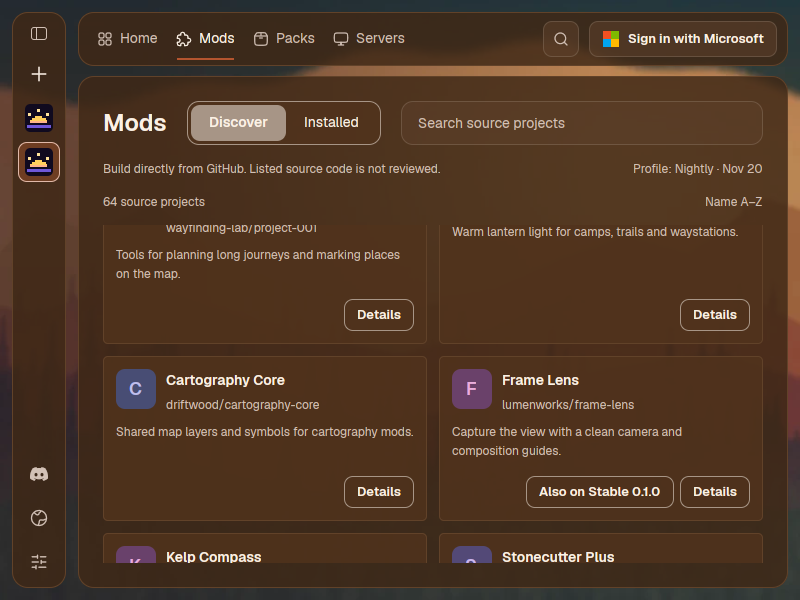
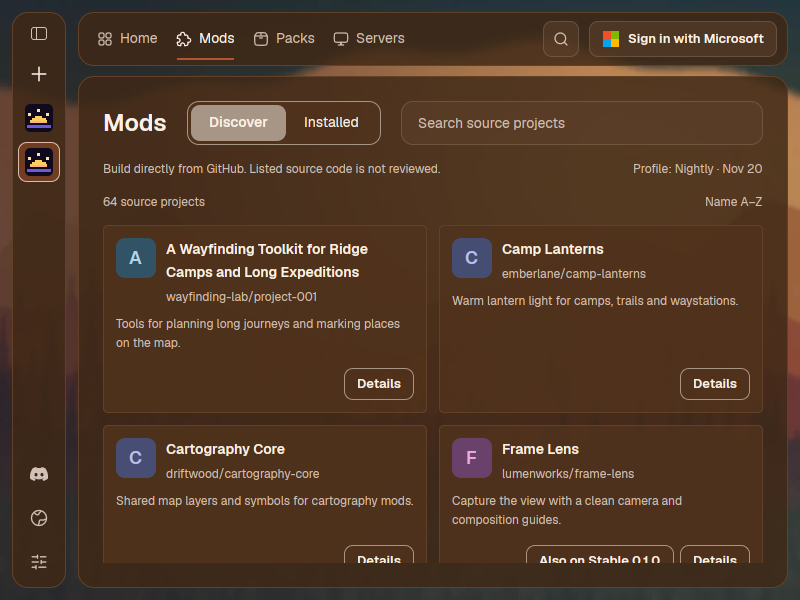
Refresh the final compact Nightly walkthrough

diff --git a/rollup7-6691547f9-final/README.md b/rollup7-6691547f9-final/README.md
@@ -20,7 +20,7 @@ At 800×600 the bottom of the disabled Extras note in the Home build menu remain
 |---|---|---|
 | [discover-stable-800x600.png](discover-stable-800x600.png) | The Stable profile shows only registry mods and keeps the Stable · 0.1.0 build label. | `0f78e6f37d2b4240dca9d49b7adf86dc130a8036` |
 | [discover-stable-1280x800.png](discover-stable-1280x800.png) | The Stable profile shows only registry mods and keeps the Stable · 0.1.0 build label. | `0f78e6f37d2b4240dca9d49b7adf86dc130a8036` |
-| [discover-nightly-800x600.png](discover-nightly-800x600.png) | The published Nightly · Nov 20 profile shows only source projects, the unreviewed-code note, and Also on Stable. | `0f78e6f37d2b4240dca9d49b7adf86dc130a8036` |
+| [discover-nightly-800x600.png](discover-nightly-800x600.png) | The top of the Nightly source list, with the first row fully visible and the profile on published Nightly · Nov 20. | `0f78e6f37d2b4240dca9d49b7adf86dc130a8036` |
 | [discover-nightly-1280x800.png](discover-nightly-1280x800.png) | The published Nightly · Nov 20 profile shows only source projects, the unreviewed-code note, and Also on Stable. | `0f78e6f37d2b4240dca9d49b7adf86dc130a8036` |
 
 ## Installed
@@ -49,8 +49,8 @@ At 800×600 the bottom of the disabled Extras note in the Home build menu remain
 |---|---|---|
 | [nightly-readme-800x600.png](nightly-readme-800x600.png) | Nightly mod Details show the pinned repository’s README. | `7dd5ea80f619c52dfadba5c3a9e09c3db4f2dbf5` |
 | [nightly-readme-1280x800.png](nightly-readme-1280x800.png) | Nightly mod Details show the pinned repository’s README. | `7dd5ea80f619c52dfadba5c3a9e09c3db4f2dbf5` |
-| [nightly-source-consent-800x600.png](nightly-source-consent-800x600.png) | Consent says Sunrise has not reviewed the code and that building and playing run it. Repository, commit, View source, Cancel and Build remain. | `0f78e6f37d2b4240dca9d49b7adf86dc130a8036` |
-| [nightly-source-consent-1280x800.png](nightly-source-consent-1280x800.png) | Consent says Sunrise has not reviewed the code and that building and playing run it. Repository, commit, View source, Cancel and Build remain. | `0f78e6f37d2b4240dca9d49b7adf86dc130a8036` |
+| [nightly-source-consent-800x600.png](nightly-source-consent-800x600.png) | Source-build consent on published Nightly · Nov 20, with the exact unreviewed-code warning, repository, commit, View source, Cancel and Build. | `0f78e6f37d2b4240dca9d49b7adf86dc130a8036` |
+| [nightly-source-consent-1280x800.png](nightly-source-consent-1280x800.png) | Source-build consent on published Nightly · Nov 20, with the exact unreviewed-code warning, repository, commit, View source, Cancel and Build. | `0f78e6f37d2b4240dca9d49b7adf86dc130a8036` |
 | [nightly-toolchain-progress-800x600.png](nightly-toolchain-progress-800x600.png) | The required Rust toolchain is downloading. | `7dd5ea80f619c52dfadba5c3a9e09c3db4f2dbf5` |
 | [nightly-toolchain-progress-1280x800.png](nightly-toolchain-progress-1280x800.png) | The required Rust toolchain is downloading. | `7dd5ea80f619c52dfadba5c3a9e09c3db4f2dbf5` |
 | [nightly-build-progress-800x600.png](nightly-build-progress-800x600.png) | The source build is in progress. | `7dd5ea80f619c52dfadba5c3a9e09c3db4f2dbf5` |
